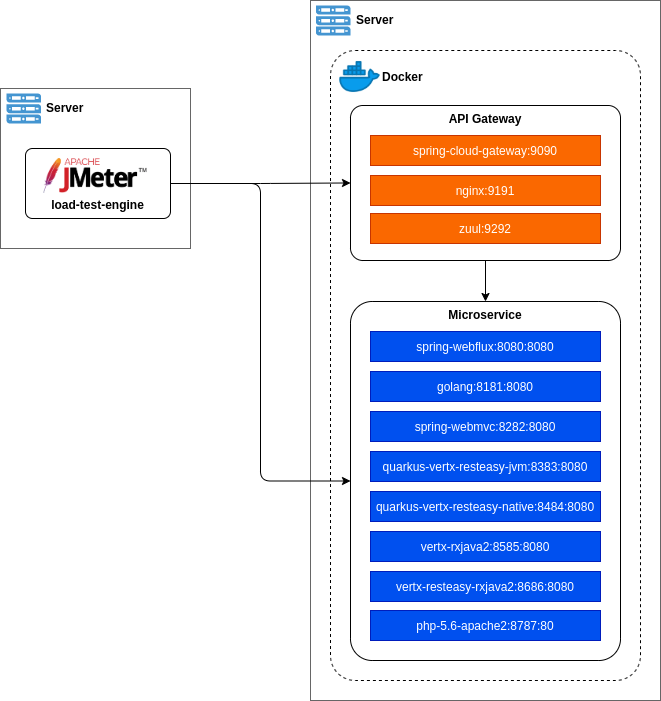
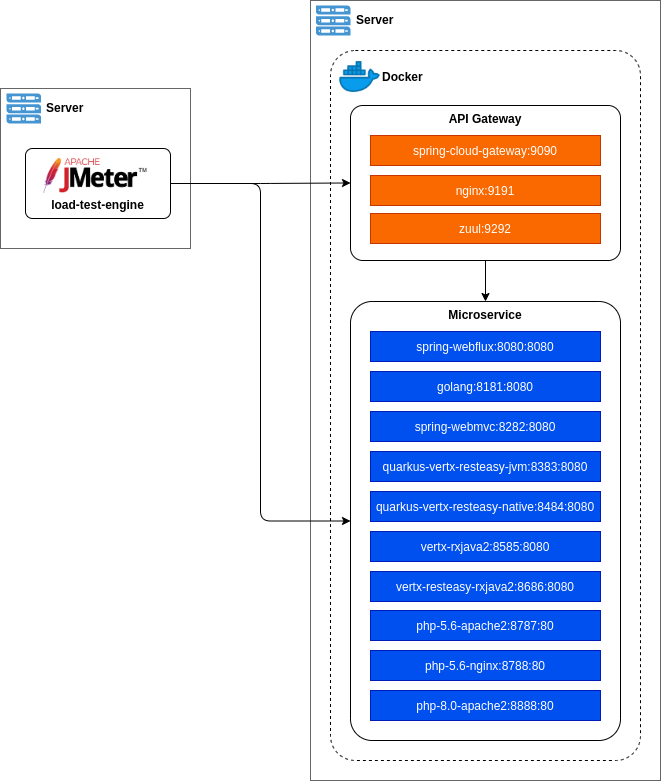
Add php-8.0-apache2

diff --git a/README.md b/README.md
@@ -39,6 +39,9 @@ At the microservice layer, we use static or dynamic REST API responses that have
 - Quarkus etc Native
 - Akka
 - NodeJS
+- PHP 5.6 Apache2
+- PHP 5.6 Nginx
+- PHP 8.0 Apache2 (JIT enabled)
 
 ### Testing tools
 - JMeter (test-plan-jmeter.jmx)
@@ -84,7 +87,9 @@ At the microservice layer, we use static or dynamic REST API responses that have
     - Quarkus Vert.x RESTEasy Native: 8484
     - Vert.x RxJava2: 8585
     - Vert.x RESTEasy RxJava2: 8686
-    - PHP-5.6: 8787
+    - PHP-5.6 Apache2: 8787
+    - PHP-5.6 Nginx: 8788
+    - PHP-8.0 Apache2: 8888
 
 ## Test
 Open jmeter test plan file (<b>test-plan-jmeter.jmx</b>) to run the test.<br/>
